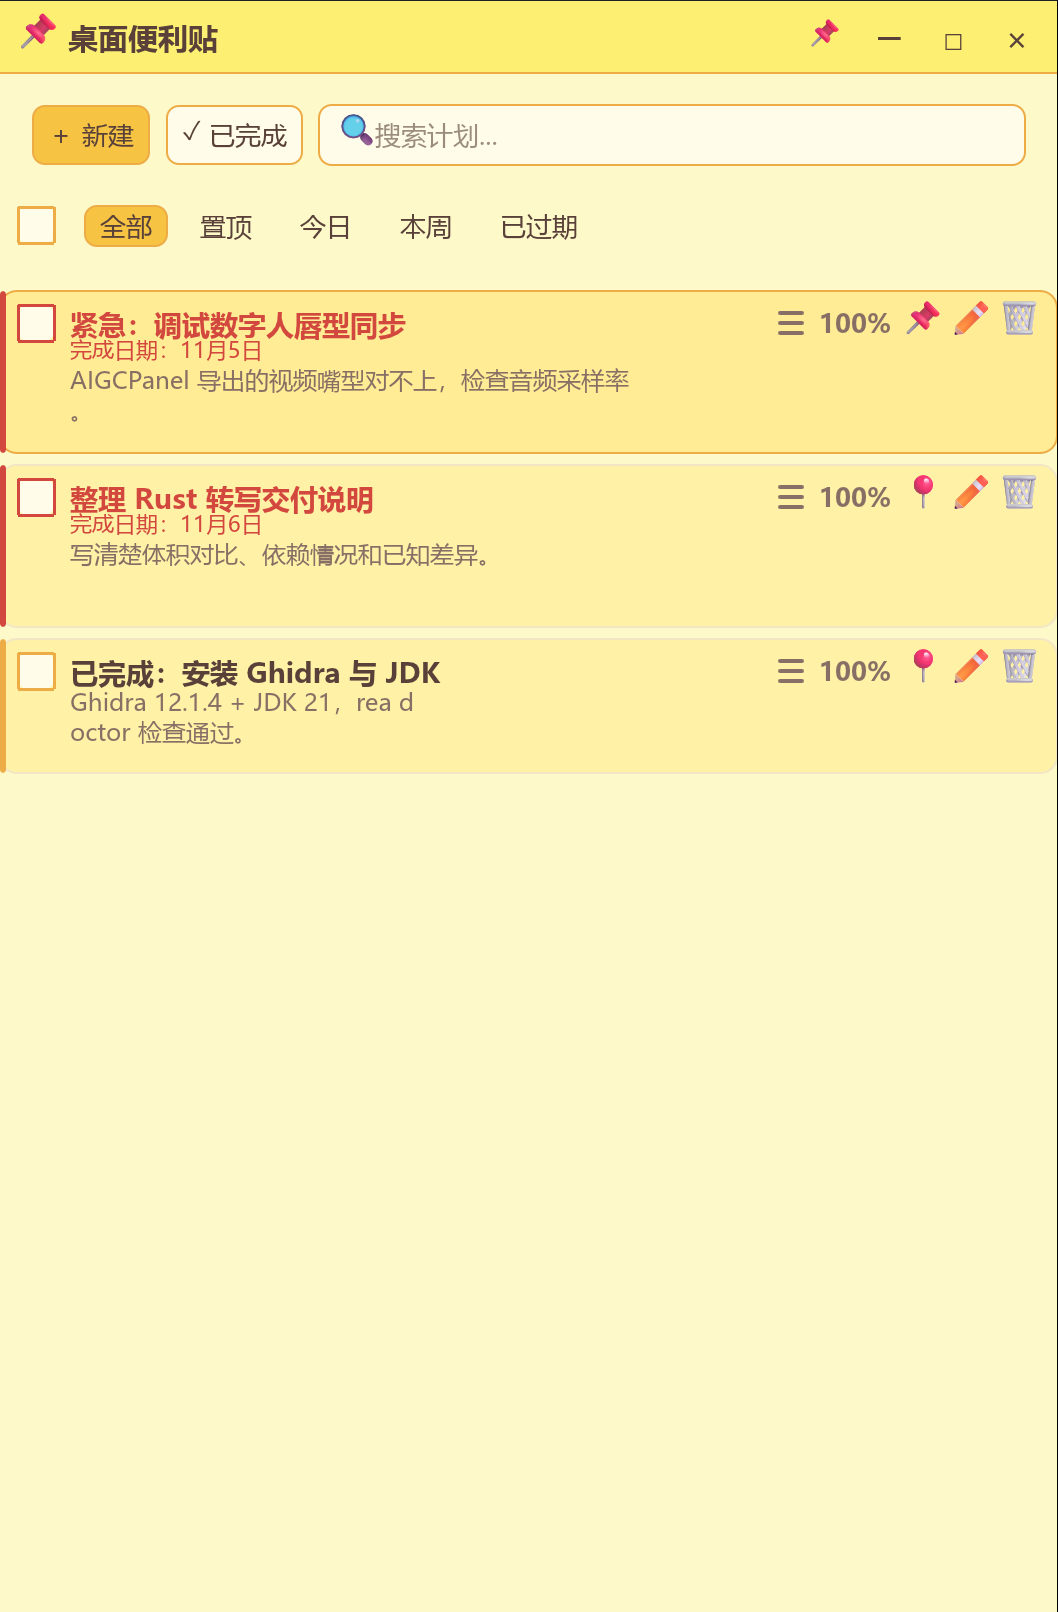
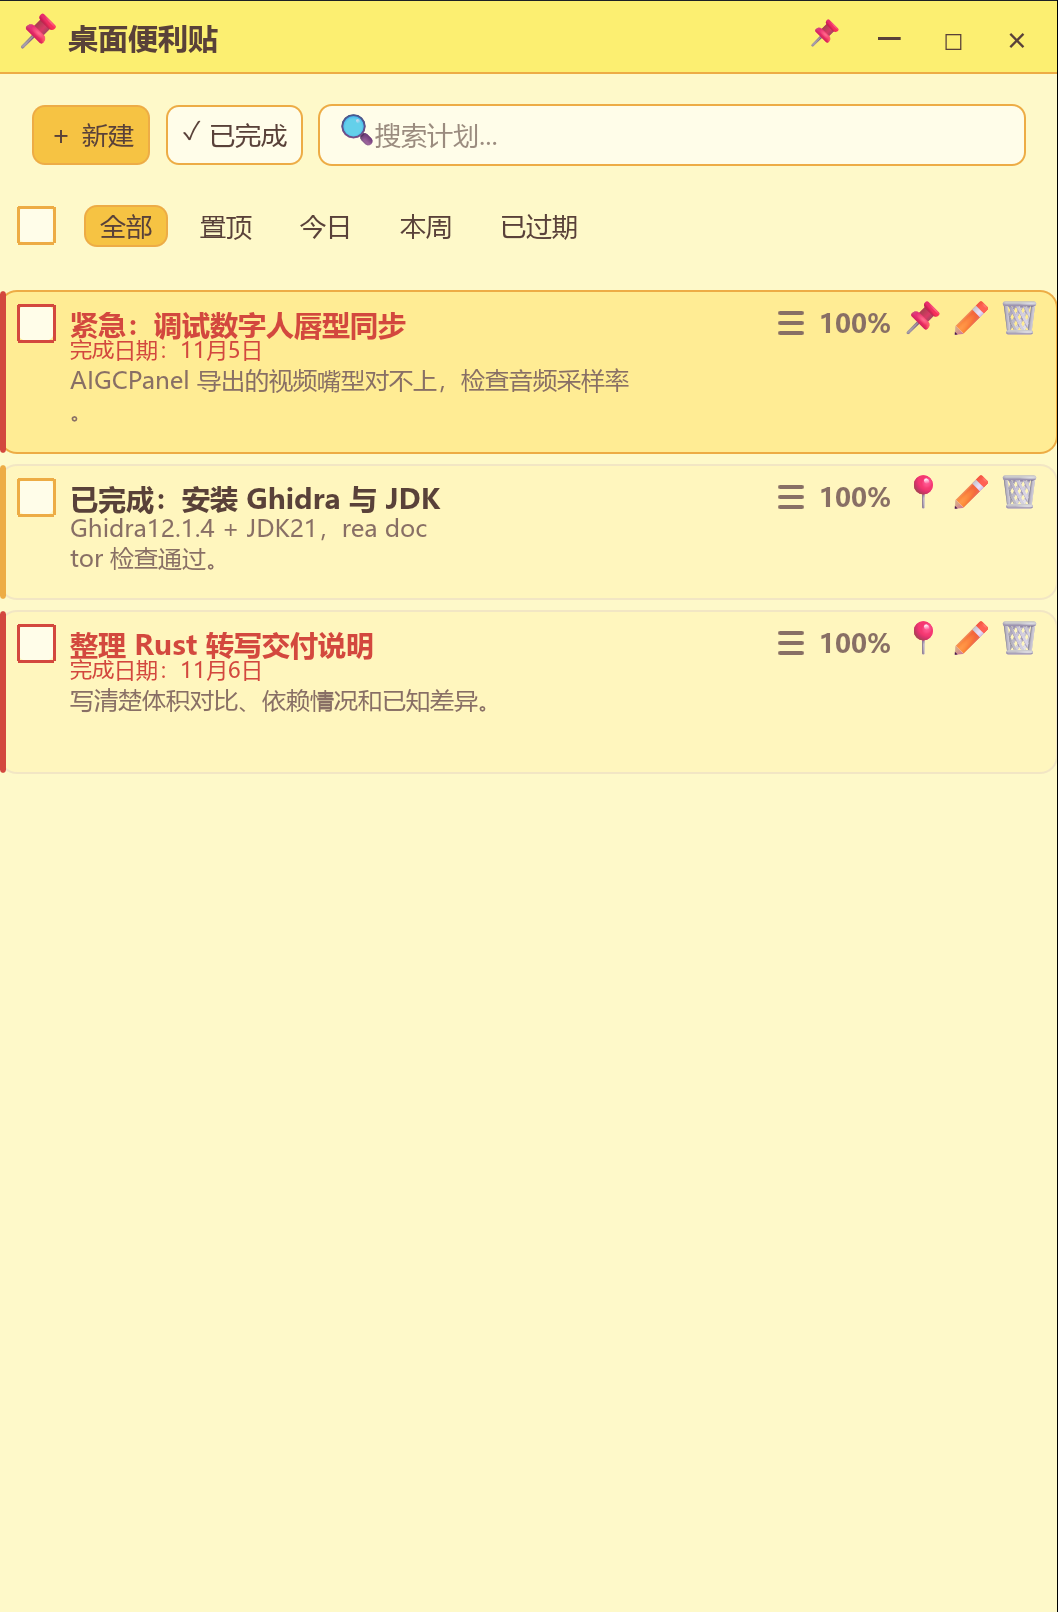
feat: 去掉多选操作条，非置顶卡底色再淡一档
- 多选只保留左上全选框与同排最右的删除按钮，去掉反选/已选计数/退出
- 色阶改为 窗口底 → 非置顶卡(普通与已完成同色) → 置顶卡
- 非置顶卡与置顶卡的明度差从 ΔL*2.0 拉大到3.2，一眼可分

Changed region(s): [[0.0, 0.2792, 0.9981, 0.4653]]

diff --git a/src/main.rs b/src/main.rs
@@ -48,11 +48,11 @@ const DATA_DIR: &str = "desktop-sticky-notes";
 const APP_ICON: &[u8] = include_bytes!("../assets/app.ico");
 
 // ---- 色阶阶梯：同一色相由浅到深分档，界面层次靠明度差表达（全暖色、无灰）----
-// 面（surface）进阶：窗口 → 已完成 → 普通卡 → 置顶卡（一档比一档深）
+// 面（surface）进阶：窗口 → 非置顶卡（普通/已完成）→ 置顶卡（一档比一档深）
+// 非置顶卡刻意做淡，与置顶卡的色差要一眼看得出来
 const Y_100: Color32 = Color32::from_rgb(0xFE, 0xF9, 0xC9); // 窗口底（最浅的面）
-const Y_150: Color32 = Color32::from_rgb(0xFF, 0xF6, 0xBE); // 已完成卡（比窗口深一档）
-const Y_200: Color32 = Color32::from_rgb(0xFF, 0xF2, 0xA6); // 普通卡（比已完成深、比置顶浅）
-const Y_250: Color32 = Color32::from_rgb(0xFF, 0xEC, 0x94); // 置顶卡（最深的面）
+const Y_150: Color32 = Color32::from_rgb(0xFF, 0xF6, 0xBE); // 非置顶卡（淡，比窗口深一档）
+const Y_200: Color32 = Color32::from_rgb(0xFF, 0xEC, 0x94); // 置顶卡（最深的面）
 const Y_300: Color32 = Color32::from_rgb(0xFC, 0xEF, 0x71); // 标题栏 / 强调底
 const Y_400: Color32 = Color32::from_rgb(0xFB, 0xE4, 0x55); // 悬停
 const Y_500: Color32 = Color32::from_rgb(0xF6, 0xC3, 0x43); // 主按钮 / 激活标签 / 进度
@@ -71,10 +71,11 @@ const G_500: Color32 = Color32::from_rgb(0x43, 0xA0, 0x47); // 完成
 
 // ---- 语义别名（调用点沿用旧名，颜色全部来自上面的色阶）----
 const C_BG: Color32 = Y_100;
-const C_CARD: Color32 = Y_200;
-/// 置顶卡片：比普通卡深一档
-const C_BG_PIN: Color32 = Y_250;
-/// 已完成卡片：比窗口深一档、比普通卡浅（"做完了"的轻盈感）
+/// 普通卡：不置顶的淡面
+const C_CARD: Color32 = Y_150;
+/// 置顶卡片：比非置顶卡深一档，色差一眼可见
+const C_BG_PIN: Color32 = Y_200;
+/// 已完成卡片与普通卡同色（都是不置顶的淡面），靠左侧金条与绿勾区分
 const C_BG_DONE: Color32 = Y_150;
 const C_LIGHT: Color32 = N_050;
 const C_ACCENT: Color32 = Y_300;
@@ -1937,9 +1938,6 @@ impl Planner {
     }
 
     fn list(&mut self, ui: &mut Ui, ctx: &Context) {
-        if self.select_mode {
-            self.select_bar(ui);
-        }
         let visible = self.visible_items();
         self.item_rects.clear();
 
@@ -1991,39 +1989,6 @@ impl Planner {
         if !self.selected.remove(id) {
             self.selected.insert(id.to_string());
         }
-    }
-
-    /// 多选操作条：反选 / 已选计数 / 退出（全选走左上全选框，删除走标签行最右）
-    fn select_bar(&mut self, ui: &mut Ui) {
-        let visible_ids: Vec<String> = self
-            .visible_items()
-            .iter()
-            .map(|i| i.id.clone())
-            .collect();
-
-        Frame::NONE
-            .fill(C_LIGHT)
-            .inner_margin(Margin::symmetric(16, 6))
-            .show(ui, |ui| {
-                ui.horizontal(|ui| {
-                    if ui.button("反选").clicked() {
-                        for id in &visible_ids {
-                            if !self.selected.remove(id) {
-                                self.selected.insert(id.clone());
-                            }
-                        }
-                    }
-                    ui.label(
-                        RichText::new(format!("已选 {} 项", self.selected.len()))
-                            .size(12.0)
-                            .color(C_TEXT2),
-                    );
-                    if ui.button("退出").clicked() {
-                        self.select_mode = false;
-                        self.selected.clear();
-                    }
-                });
-            });
     }
 
     fn item_card(&mut self, ui: &mut Ui, ctx: &Context, item: &Item) {
